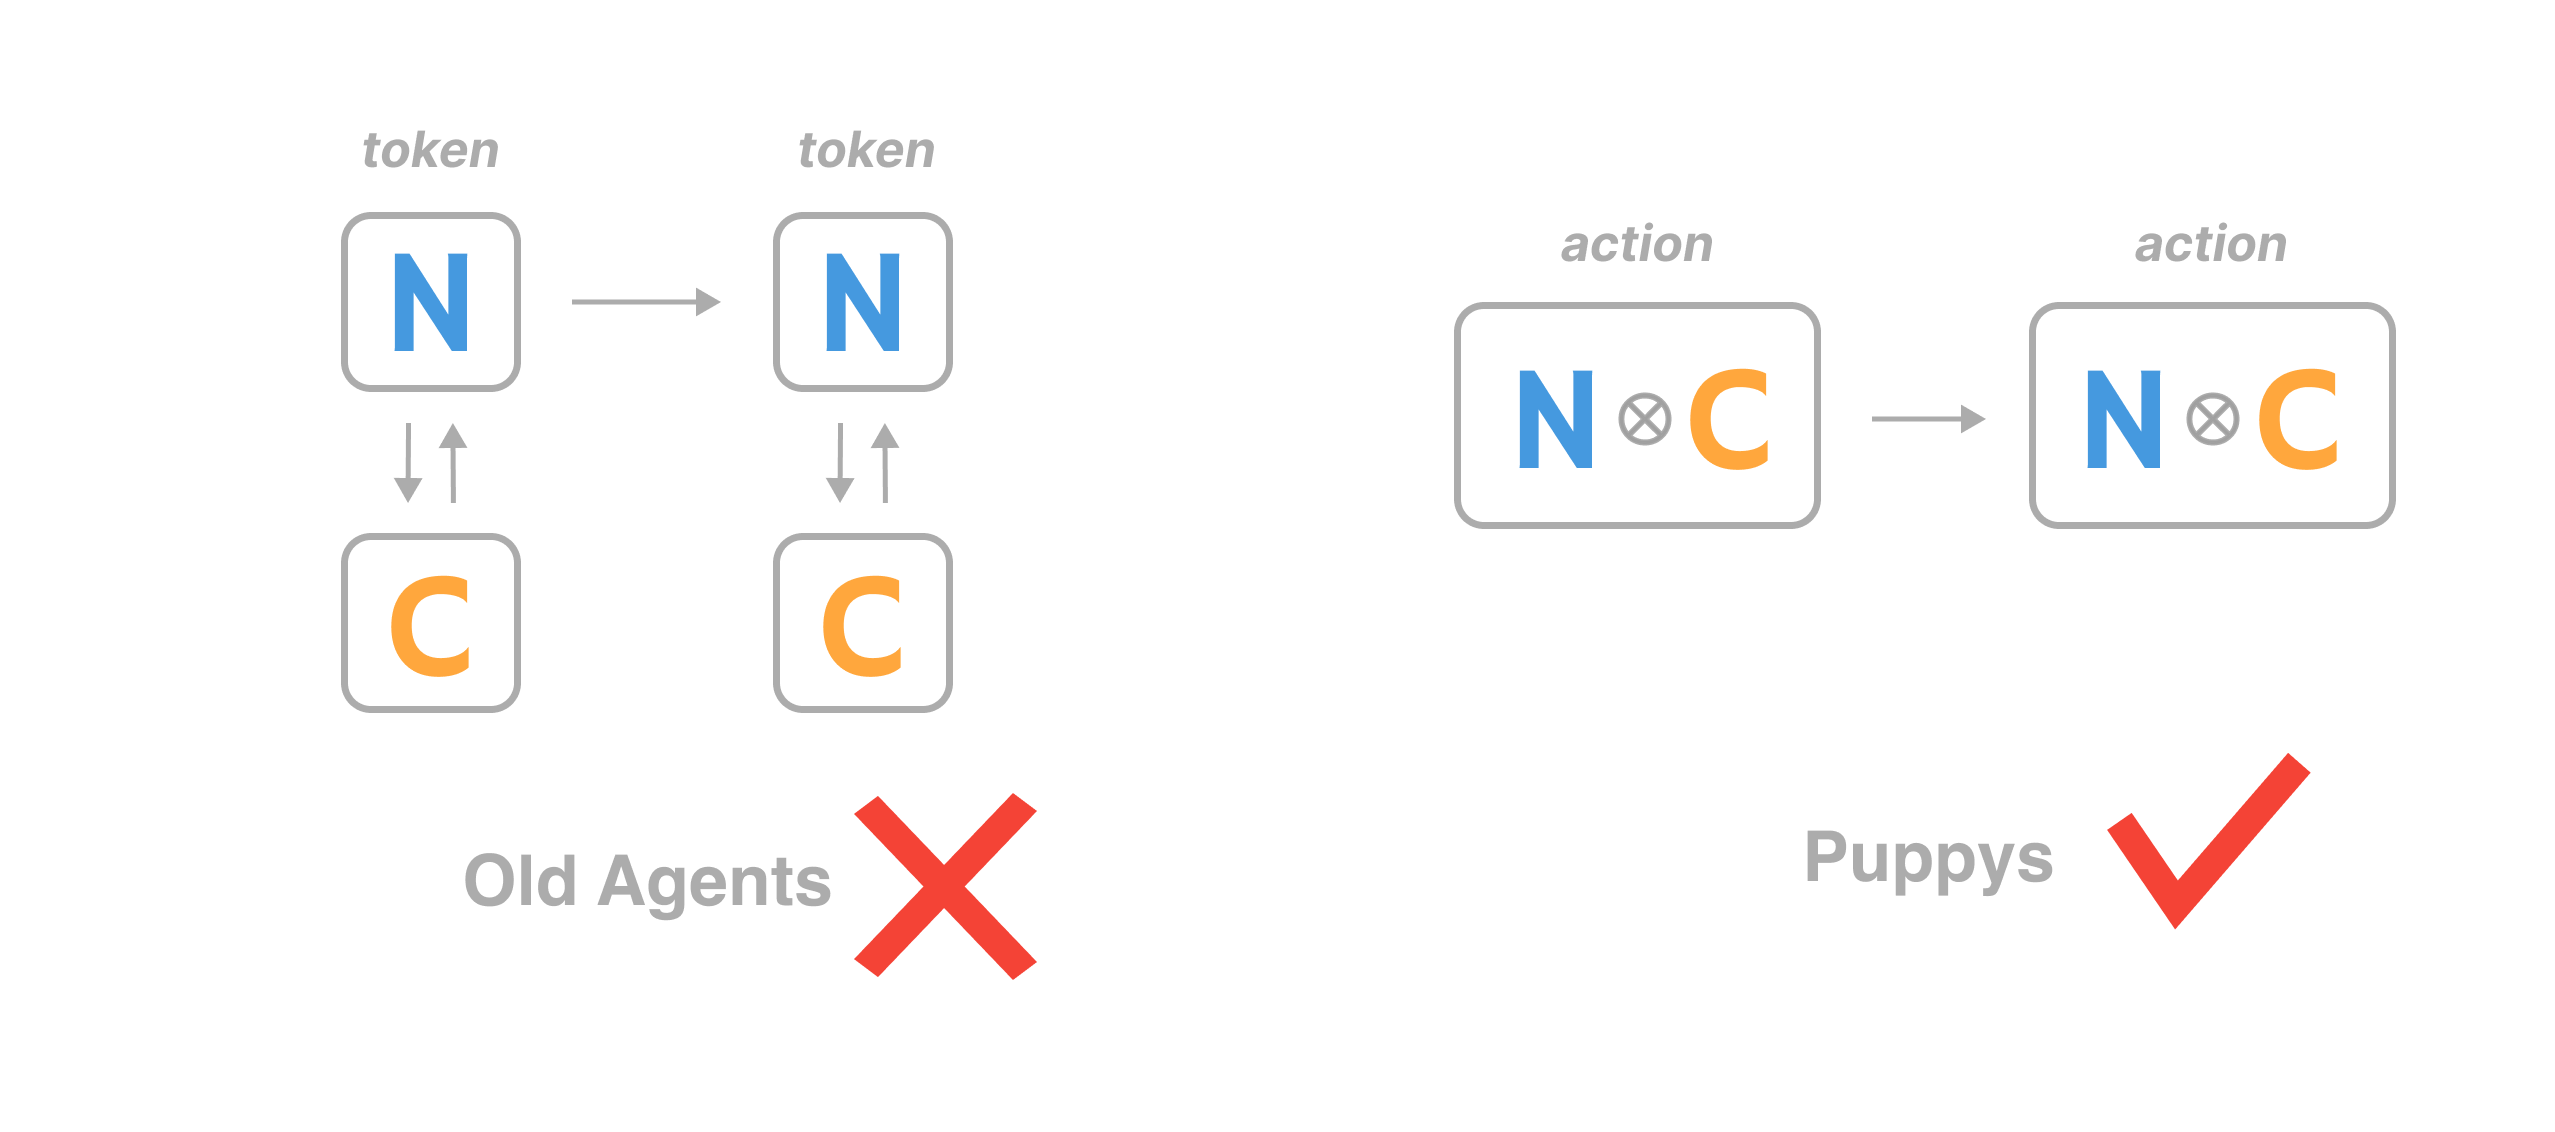
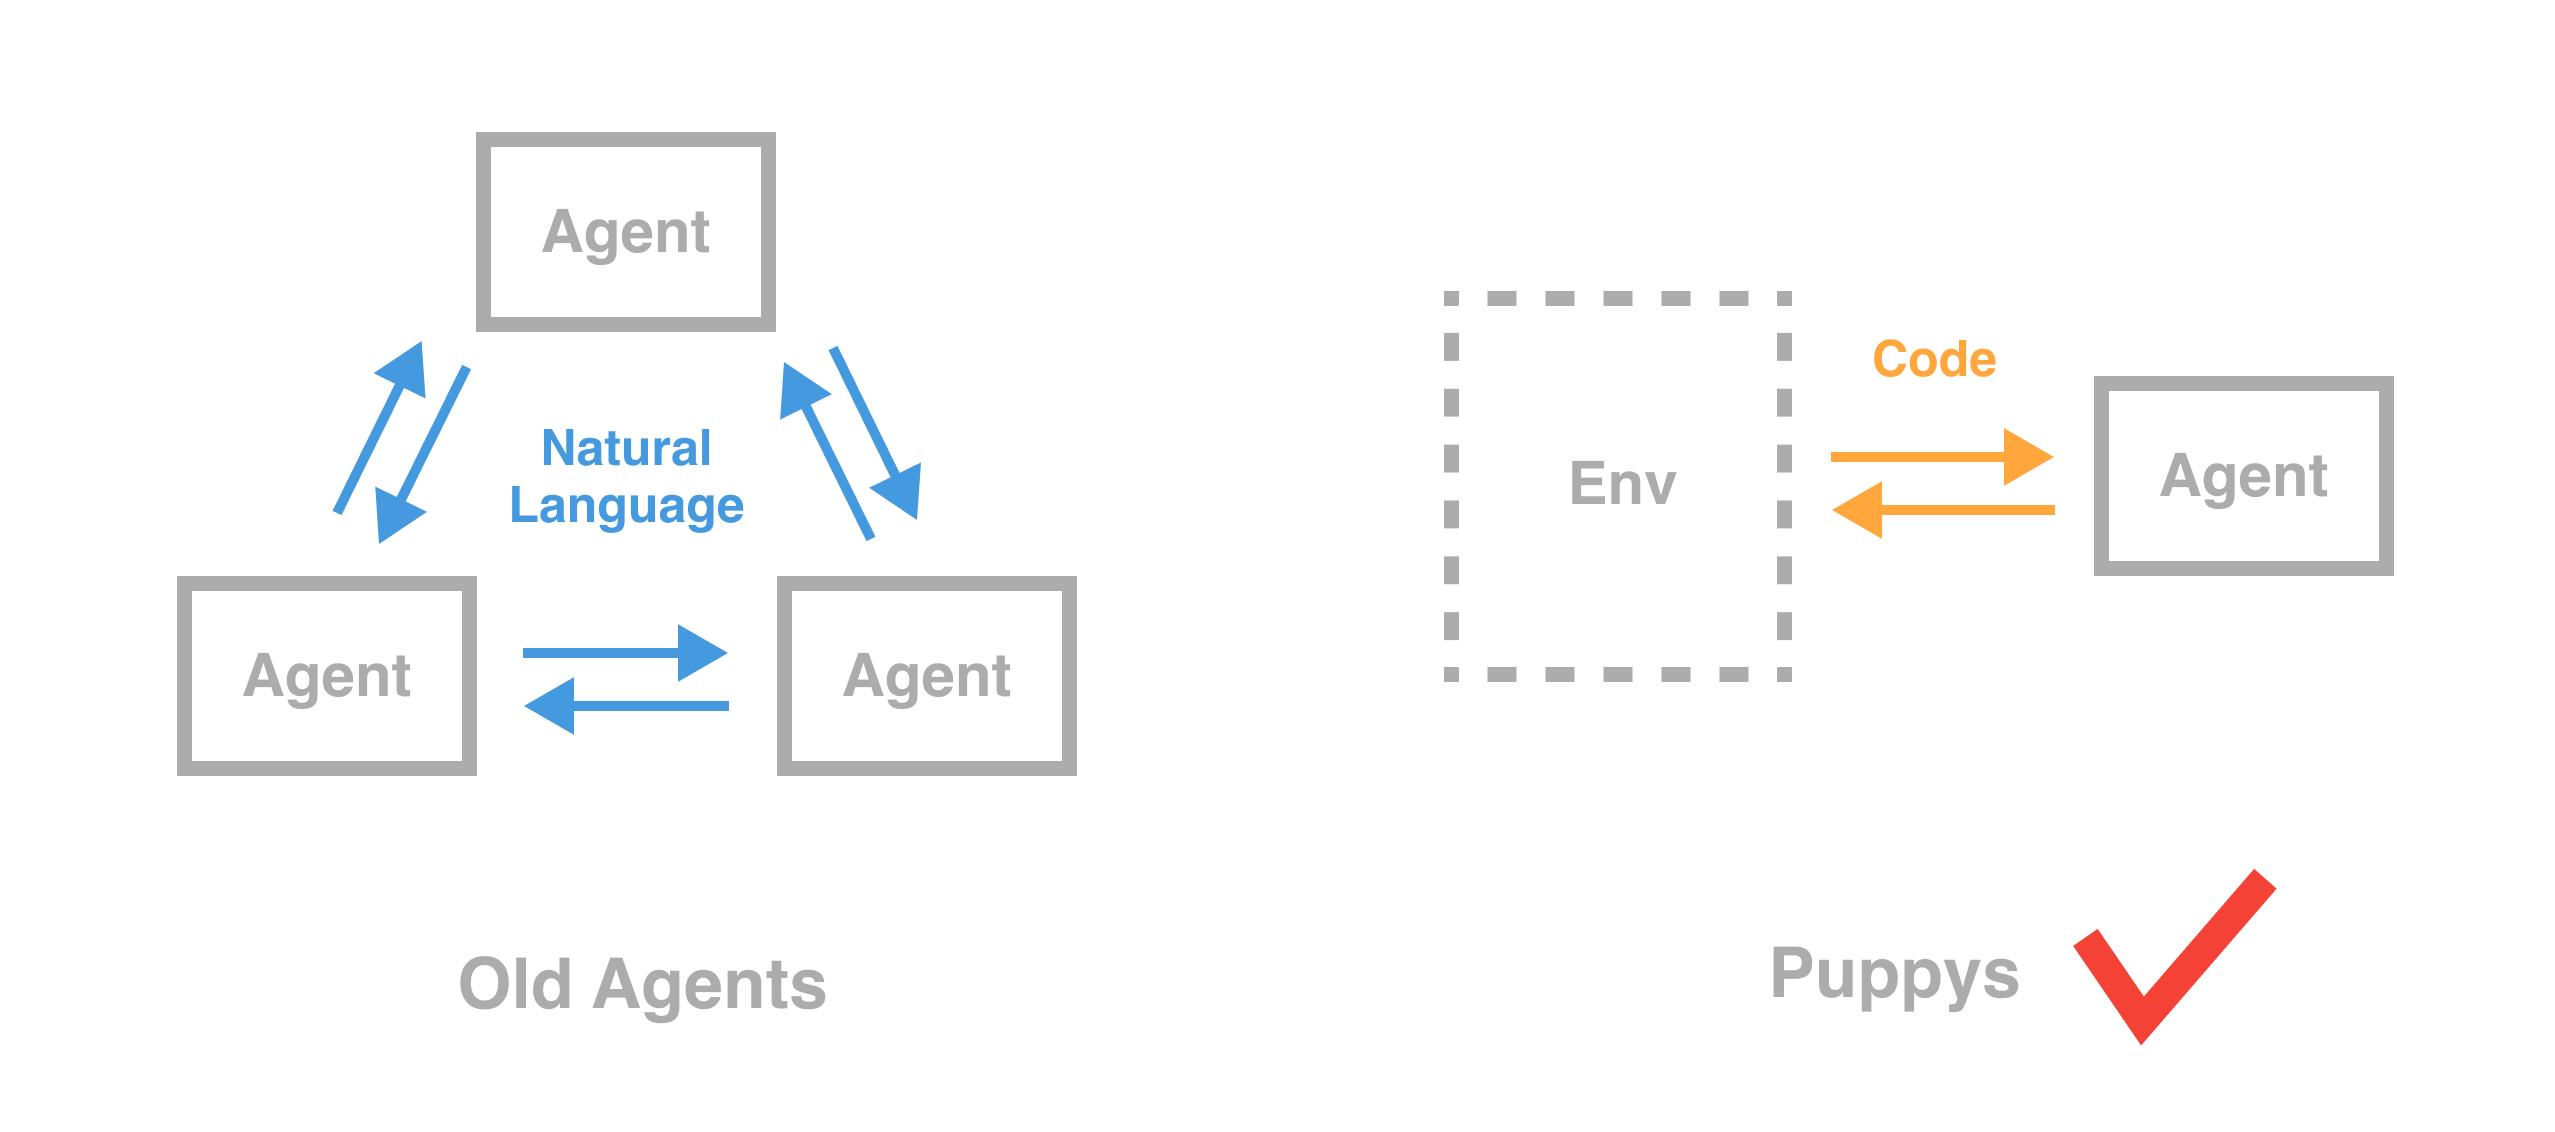
:memo: modified readme.md

diff --git a/README.md b/README.md
@@ -4,7 +4,7 @@
       <img src="./assets/PuppyAgentLOGOBig.png" alt="Image" height="120">
     <h1 align="center">Puppys</h1>
 
-**Framework for Developing an Agentic System**
+**Environment-Oriented Programing Framework for AI Agents**
 
 **🏠 [PuppyAgentTech](https://www.puppyagent.com/)**
 &ensp;&ensp;
@@ -24,23 +24,56 @@
 <div align="center">
 
 
+-**Environment-Oriented**-
+
+*Build an LLM-friendly environment before building your agents.*
+
+-**Code-Driven**-
+
+*Environment, action and reasoning of agents are all based on codes.*
+
 -**Plug and Play**-
 
-*Insert agentic ability into anywhere your existing enterprise code.*
-
--**Make Agent Robust**-
-
-*Instruct agents via code, leading configurable and robust.*
-
--**Lite**-
-
-*Less dependency, more scalability.*
+*Insert agent’s ability into anywhere your existing code.*
 </div>
 
 <div align="center">
 <img src="./assets/intro_diagram.png" alt="Image" width="800">
 </div>
 
+
+
+
+
+
+
+<div align="center">
+
+## **Environment-Oriented Programming**
+
+</div>
+The most important thing for an agent to work is an agent-friendly environment. 
+
+**Puppys** provides a framework that describe environment as agent can understand.
+
+
+<div align="center">
+<img src="./assets/environment_oriented.png" alt="Image" width="800">
+</div>
+
+<div align="center">
+
+## Code-Driven
+
+</div>
+
+Code is the universal language for defining the behavior of LLM-based agents. 
+
+**Puppys** provides a code-driven programming framework that allows agents to generate code based on the current environment to modify the environment accordingly.
+
+<div align="center">
+<img src="./assets/PuppyVsOthers.png" alt="Image" width="800">
+</div>
 
 
 <div align="center">
@@ -57,41 +90,6 @@ No DSL. No Workflow. Only Python (We understand that you don't like DSL or Workf
 <img src="./assets/plug&play.png" alt="Image" width="800">
 
 </div>
-
-
-
-
-<div align="center">
-
-## Make Agent Robust
-
-</div>
-
-**Autonomous Agents** can do tasks by themselves and work in many situations, but only be able to solve very simple problems.
-
-**RPA** (Robotic Process Automation), can handle complex tasks but isn't very flexible. 
-
-We provide a hybrid solution of Agents and RPA.
-
-<div align="center">
-<img src="./assets/AgentRPA.png" alt="Image" width="800">
-</div>
-
-<div align="center">
-
-## Code-Driven
-
-</div>
-
- **An LLM predicts the next token**
-
- **An agent predicts the next action**. 
-
-We believe that an LLM-based agent needs to predict the next action; in reality, it predicts the **next code**. This is the philosophy of being code-driven.
-<div align="center">
-<img src="./assets/PuppyVsOthers.png" alt="Image" width="800">
-</div>
-
 
 
 ## Install
@@ -133,8 +131,8 @@ hacker_news.run()
 ## Contact Us
 For collaboration, inquiries, career opportunities, and more, please contact:
 
-**Our Team:** puppyteam@puppyagent.com
-
 **Founder:** guantum@puppyagent.com
 
-**[Book a meeting with founders via Calendly](https://calendly.com/guantum/30min)**~~~~
+**[Book a meeting with founders via Calendly](https://calendly.com/guantum/30min)**
+
+**Our Team:** puppyteam@puppyagent.com
